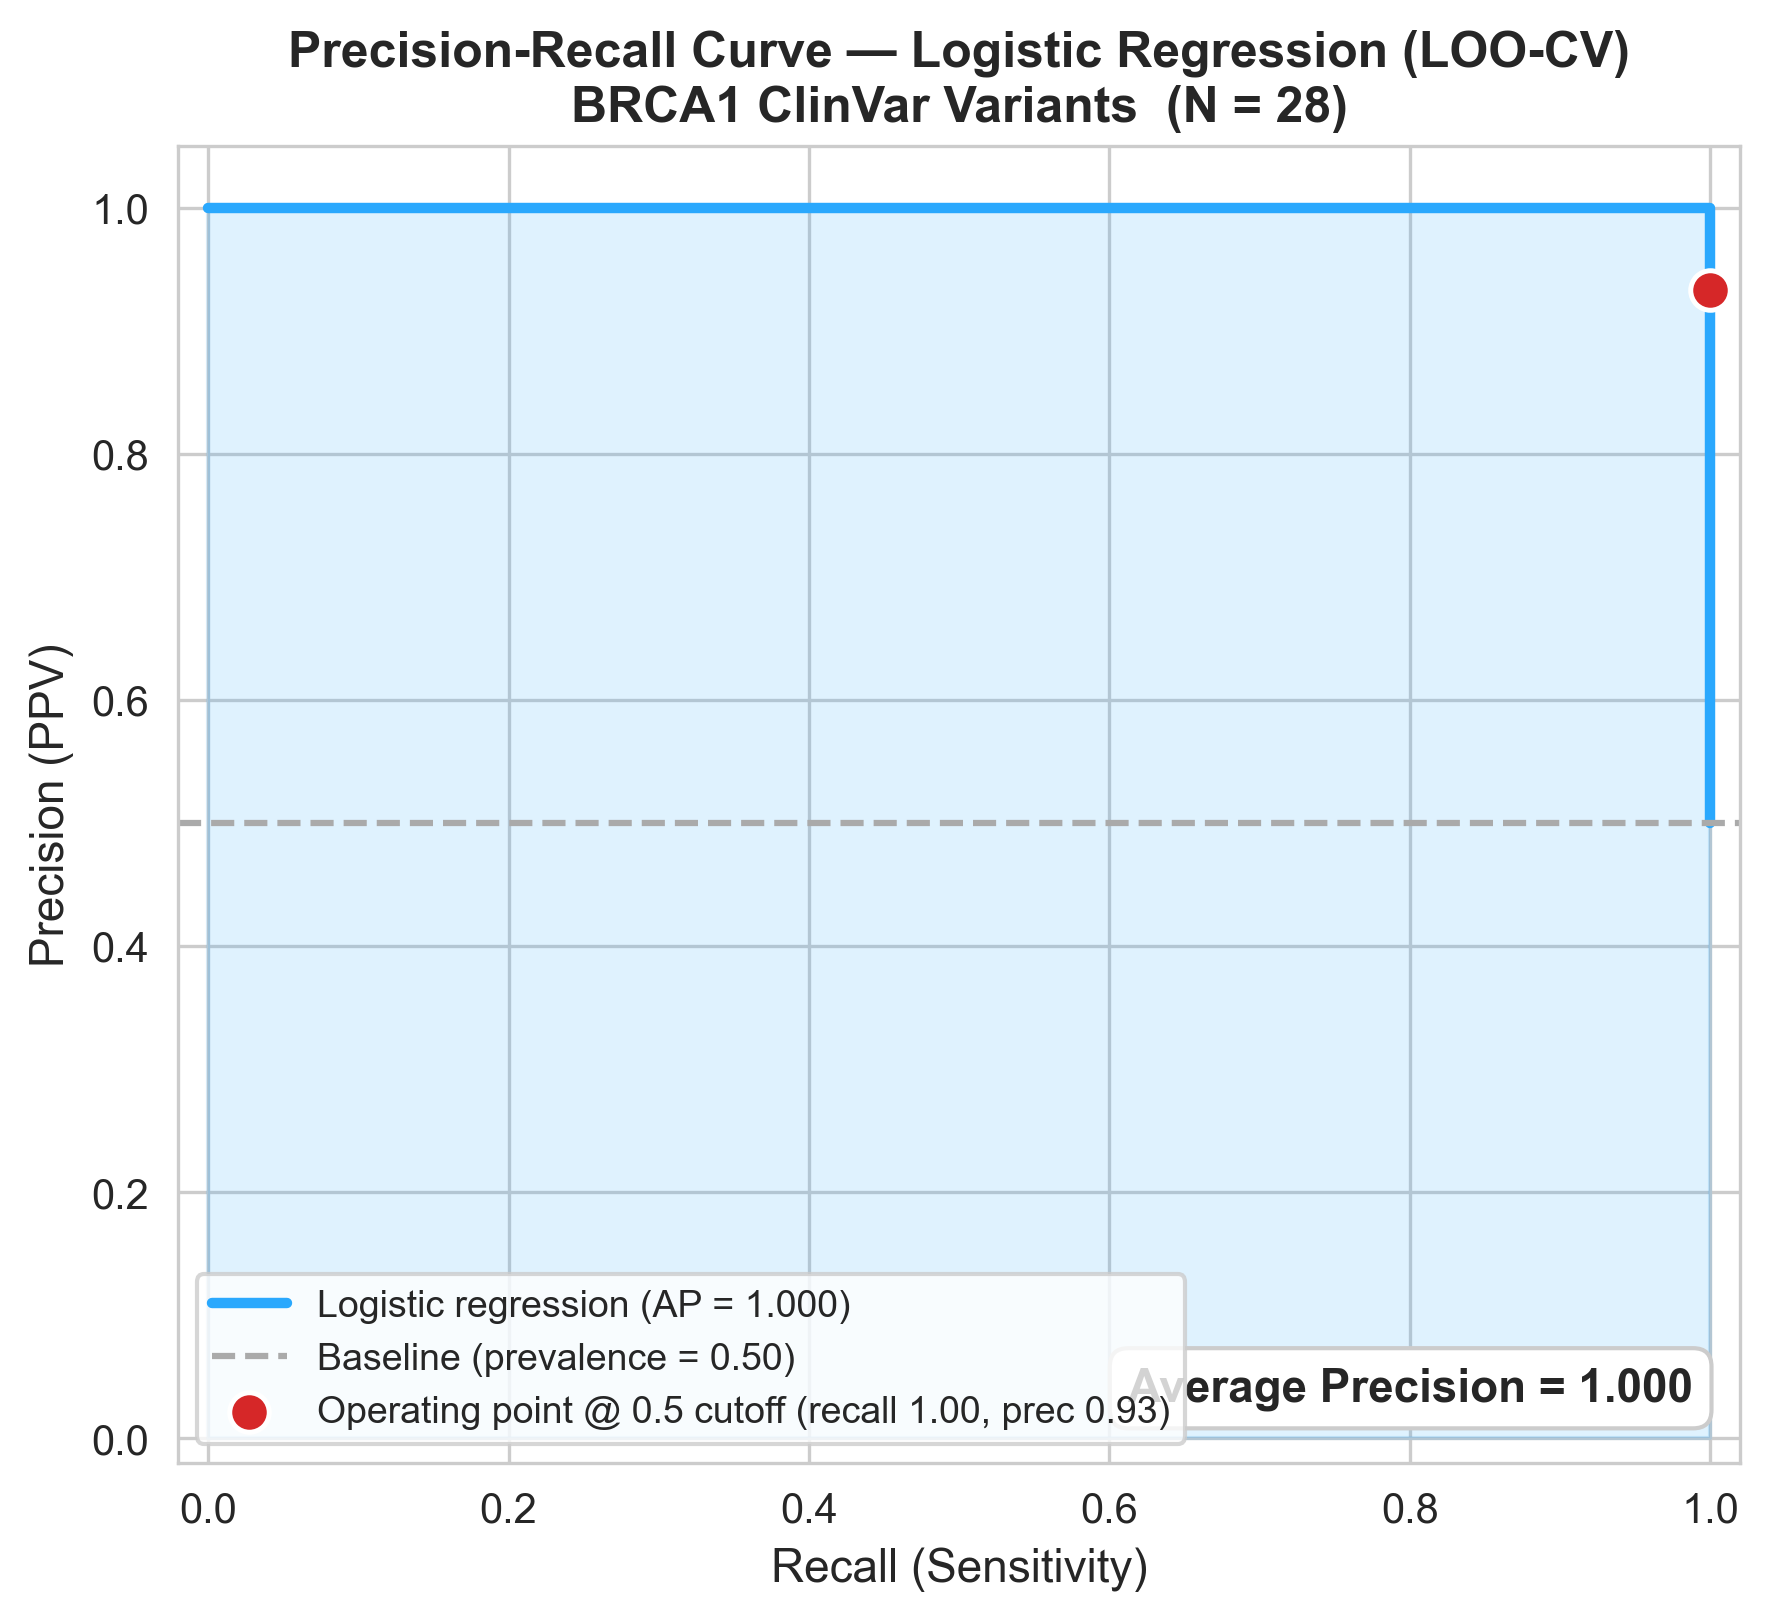
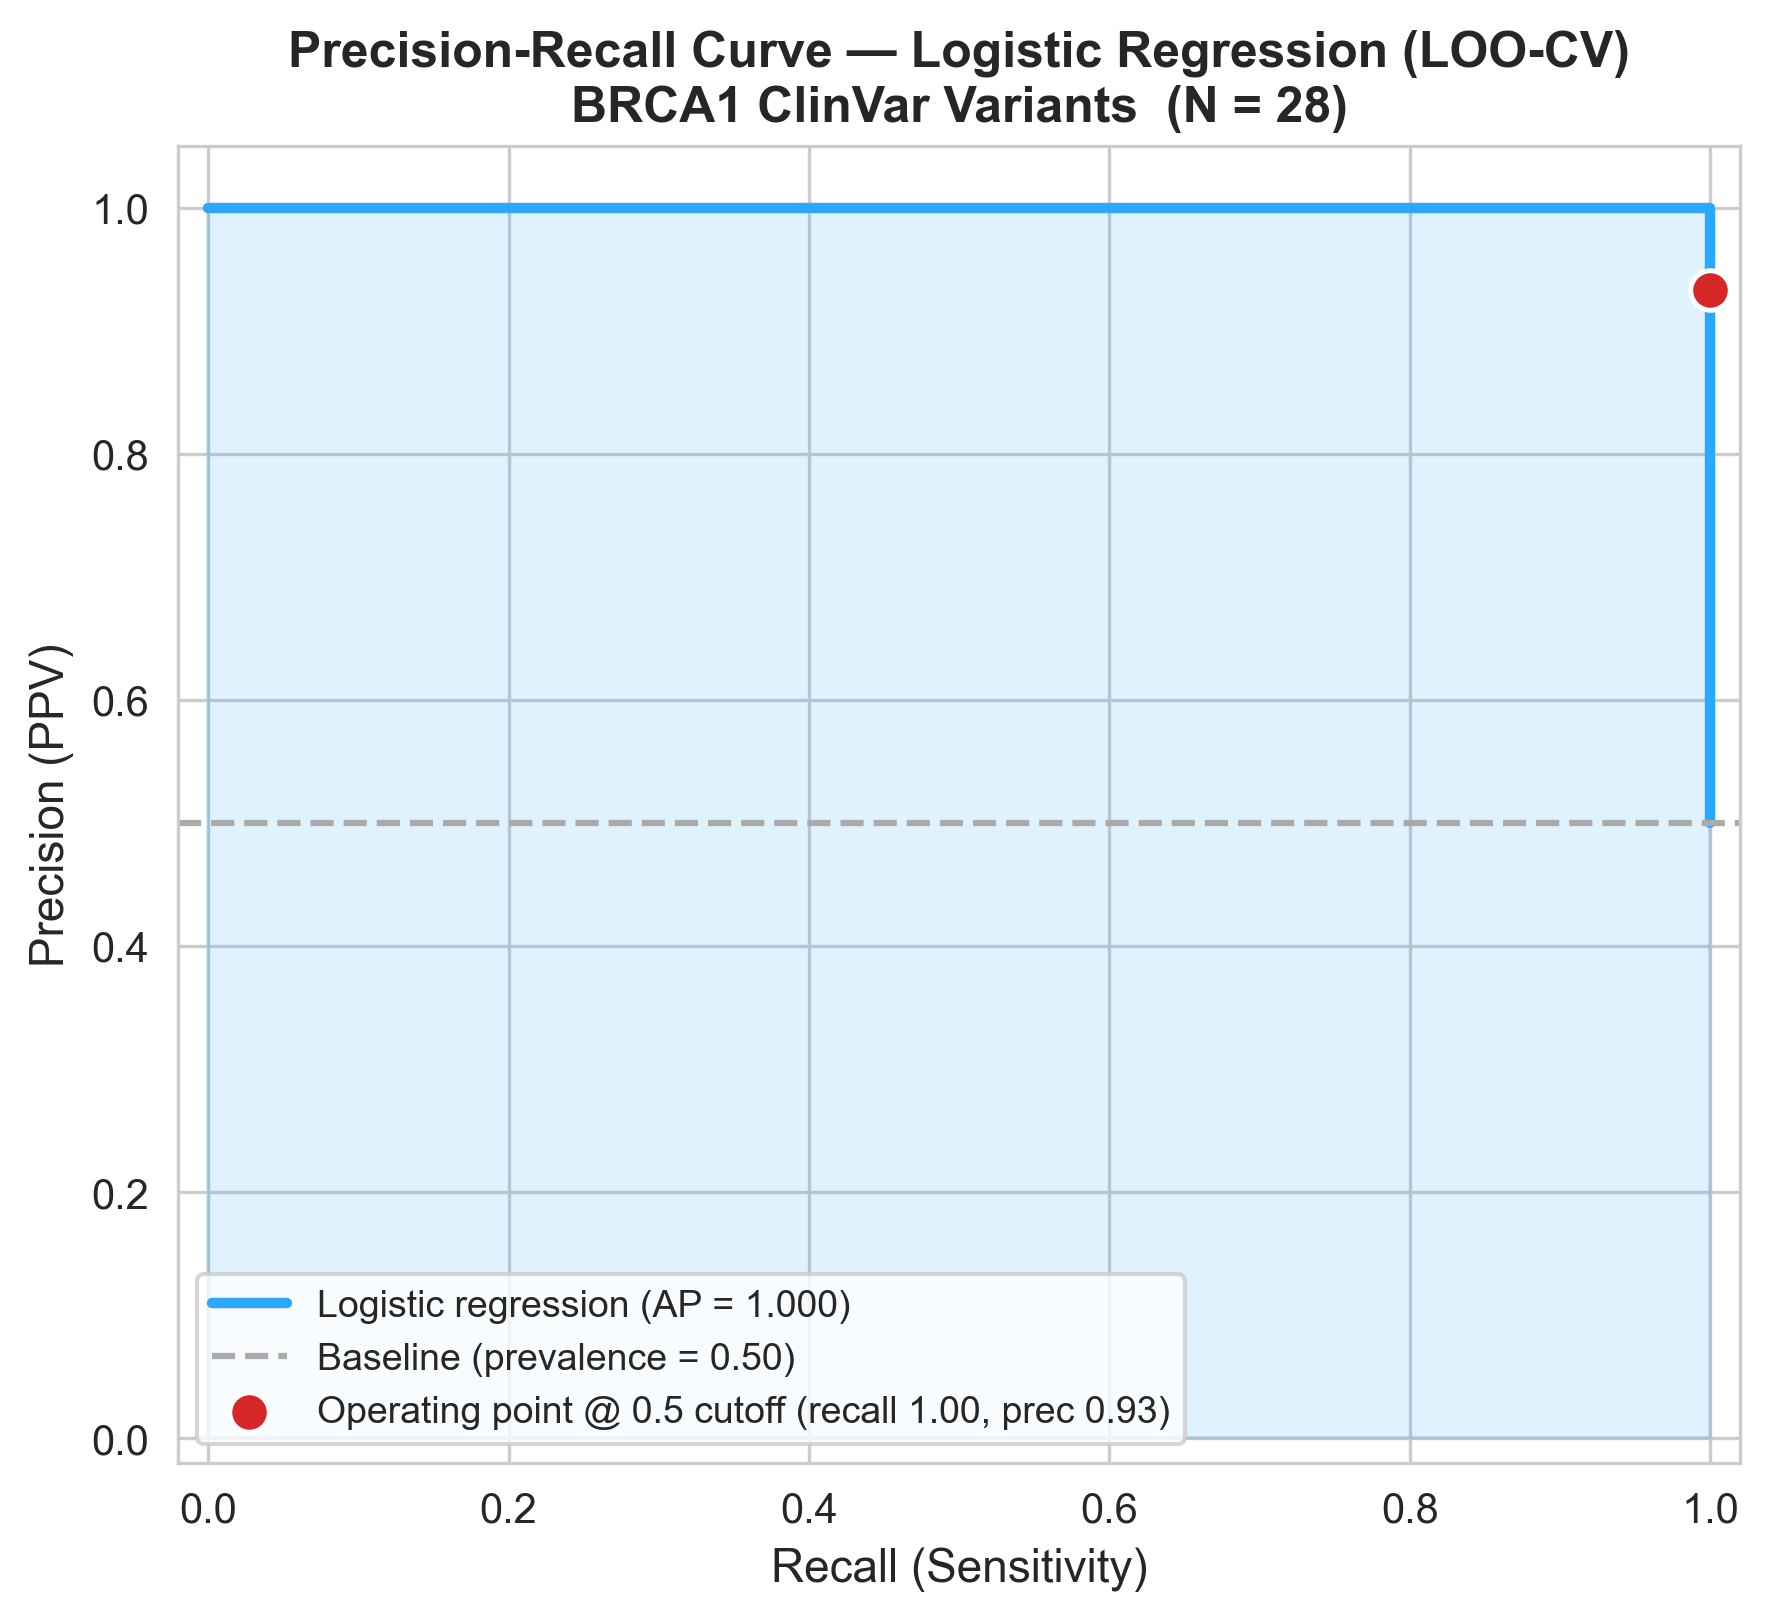
Aim 4: clean up ROC/PR figures and fix stale N in metrics
- Remove redundant AUROC/AP text boxes (values already shown in legend);
  this also fixes the PR-curve label overlapping the legend
- Fix two stale 'N=20'/'all 20' strings in the generated metrics text -> N=28

Changed region(s): [[0.6215, 0.8328, 0.9944, 0.8945]]

diff --git a/aim4/02_logistic_regression.py b/aim4/02_logistic_regression.py
@@ -184,8 +184,8 @@ metrics_text = textwrap.dedent(f"""
     ------
     Logistic regression (L2 penalty, C=1.0) with Leave-One-Out cross-validation.
     LOO-CV produces one unbiased predicted probability per variant, avoiding
-    overfitting on the small N=20 dataset. All metrics below are computed from
-    these out-of-fold probabilities.
+    overfitting on the small N={n_total} dataset. All metrics below are computed
+    from these out-of-fold probabilities.
 
     Model coefficients (fit on full data)
     --------------------------------------
@@ -200,7 +200,7 @@ metrics_text = textwrap.dedent(f"""
     Average Precision (AP) : {ap:.4f}
     These depend only on how well the probabilities rank the two classes,
     not on any cutoff. AUROC = 1.0 means the scores separate pathogenic from
-    benign perfectly by rank — i.e. SOME threshold classifies all 20 correctly.
+    benign perfectly by rank — i.e. SOME threshold classifies all {n_total} correctly.
 
     Threshold-dependent classification metrics
     ------------------------------------------
@@ -307,10 +307,7 @@ ax.legend(fontsize=9, loc="lower right")
 ax.set_xlim(-0.02, 1.02)
 ax.set_ylim(-0.02, 1.05)
 
-# AUROC text box (top-left, clear of the lower-right legend)
-ax.text(0.03, 0.04, f"AUROC = {auroc:.3f}", transform=ax.transAxes,
-        fontsize=11, va="bottom", ha="left", fontweight="bold",
-        bbox=dict(boxstyle="round,pad=0.4", fc="white", ec="#cccccc"))
+# (AUROC value is shown in the legend; no separate text box to avoid redundancy.)
 
 plt.tight_layout()
 roc_path = OUT_DIR / "roc_curve.png"
@@ -355,10 +352,7 @@ ax.legend(fontsize=9, loc="lower left")
 ax.set_xlim(-0.02, 1.02)
 ax.set_ylim(-0.02, 1.05)
 
-# AP text box (lower-right, clear of the lower-left legend)
-ax.text(0.97, 0.04, f"Average Precision = {ap:.3f}", transform=ax.transAxes,
-        fontsize=11, va="bottom", ha="right", fontweight="bold",
-        bbox=dict(boxstyle="round,pad=0.4", fc="white", ec="#cccccc"))
+# (AP value is shown in the legend; no separate text box to avoid redundancy.)
 
 plt.tight_layout()
 pr_path = OUT_DIR / "precision_recall_curve.png"